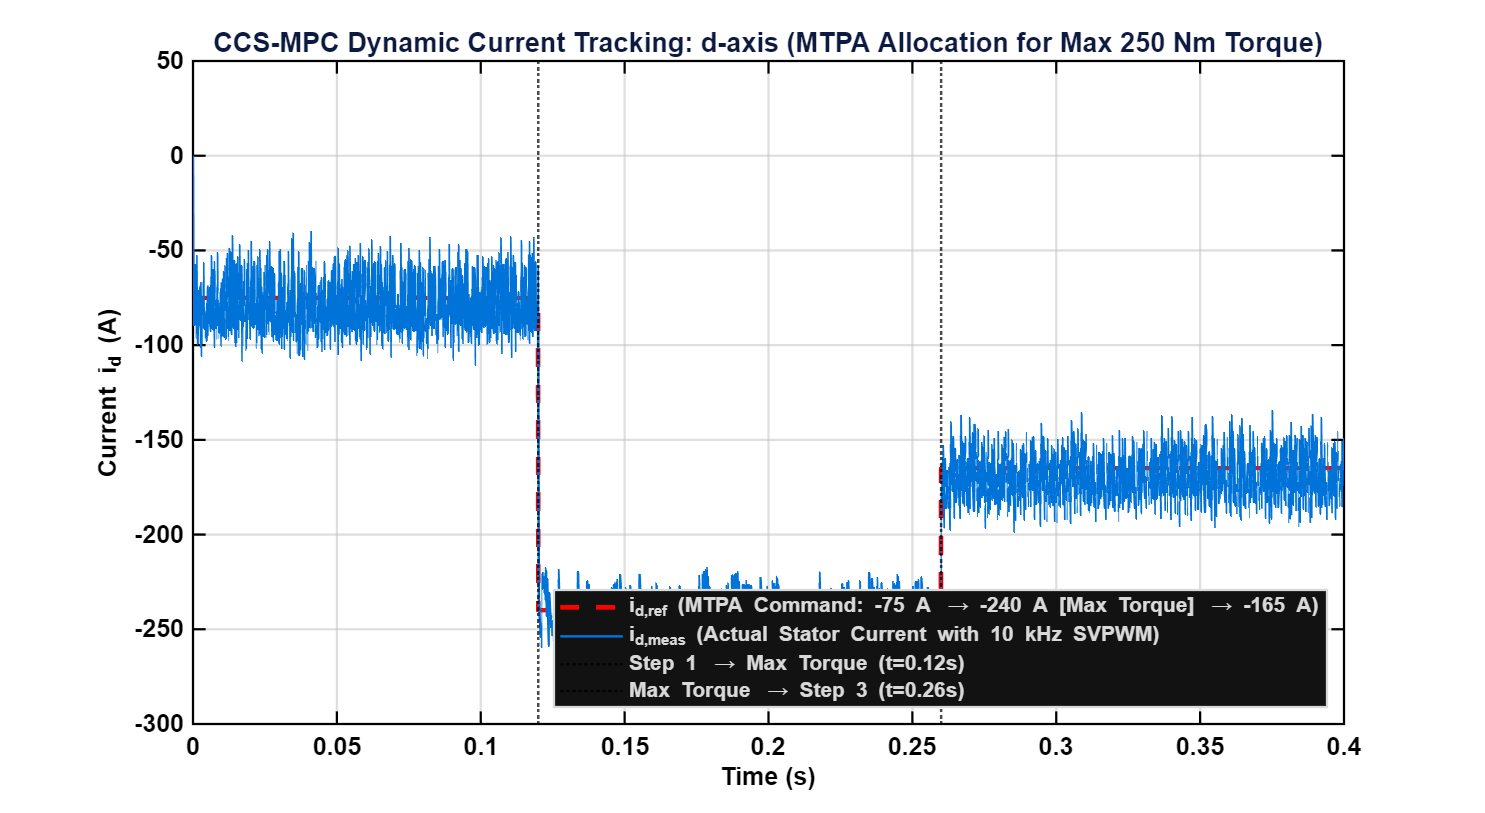
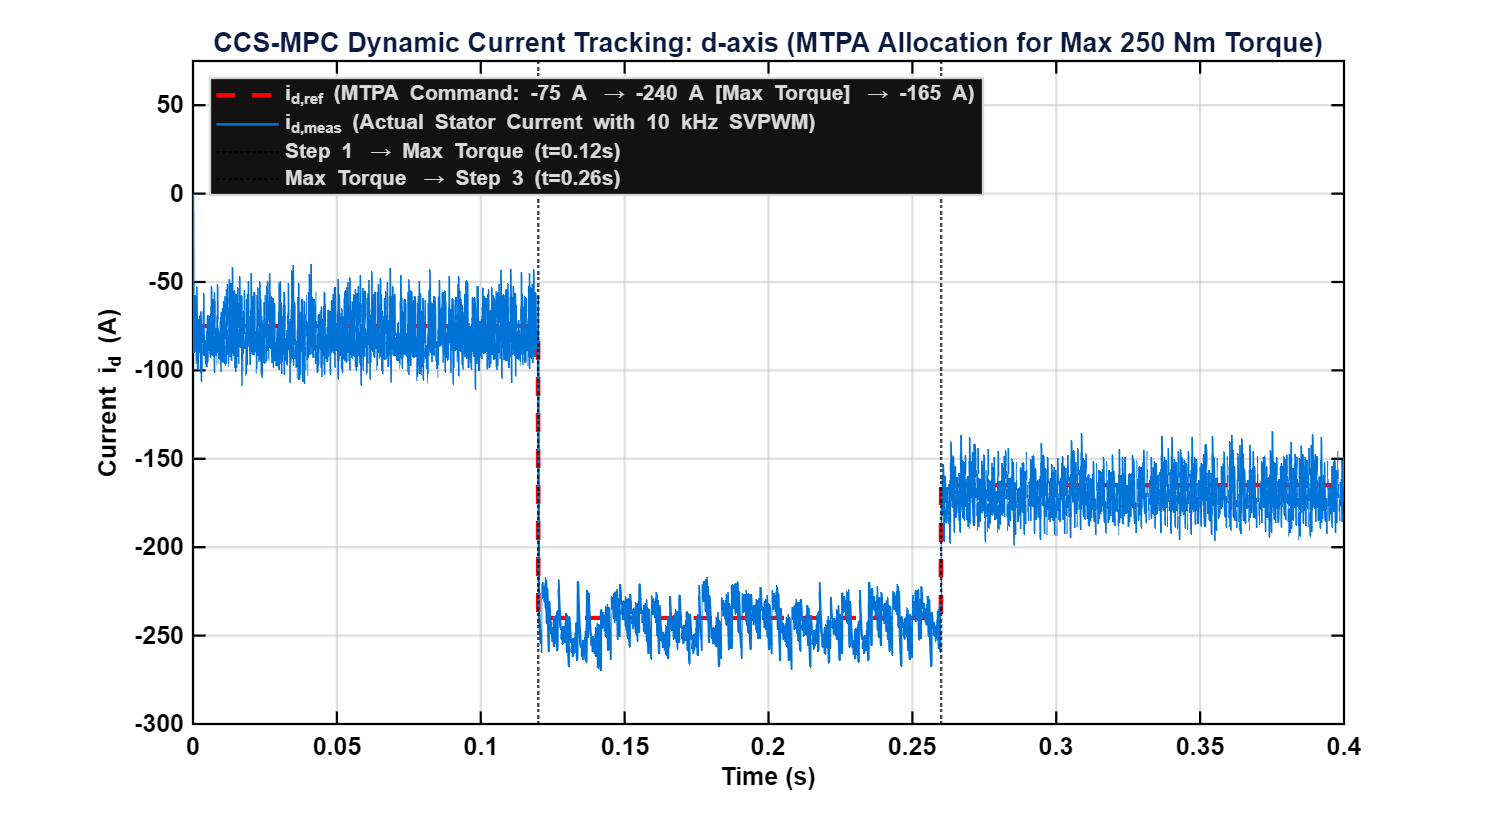
fix(review-2): remove 6 redundant error slides and relocate tracking legends clear of waveforms

diff --git a/Review_2/Presentation/first_review.tex b/Review_2/Presentation/first_review.tex
@@ -1142,19 +1142,7 @@
     \end{itemize}
 \end{frame}
 
-\begin{frame}{33. AutoTuner Result: Stator Resistance ($R_s$) SIL Error}
-    \centering
-    \includegraphics[height=0.52\textheight,keepaspectratio]{AutoTuner_Error_Rs_est.png}
-    \vspace{1mm}
-    \begin{itemize}
-        \footnotesize
-        \setlength{\itemsep}{2pt}
-        \item \textbf{Error Metric:} Max Absolute Error = \textbf{0.00e+00} across the entire 8.5-second execution window.
-        \item \textbf{Stability:} Zero numerical drift or division-by-zero anomaly on embedded target.
-    \end{itemize}
-\end{frame}
-
-\begin{frame}{34. AutoTuner Result: $d$-axis Inductance ($L_d$) Estimation}
+\begin{frame}{33. AutoTuner Result: $d$-axis Inductance ($L_d$) Estimation}
     \centering
     \includegraphics[height=0.52\textheight,keepaspectratio]{AutoTuner_MIL_vs_SIL_Ld_est.png}
     \vspace{1mm}
@@ -1166,19 +1154,7 @@
     \end{itemize}
 \end{frame}
 
-\begin{frame}{35. AutoTuner Result: $d$-axis Inductance ($L_d$) SIL Error}
-    \centering
-    \includegraphics[height=0.52\textheight,keepaspectratio]{AutoTuner_Error_Ld_est.png}
-    \vspace{1mm}
-    \begin{itemize}
-        \footnotesize
-        \setlength{\itemsep}{2pt}
-        \item \textbf{Error Metric:} Max Absolute Error = \textbf{0.00e+00}.
-        \item \textbf{Verification Parity:} Proves Fourier accumulator maintains bit-level parity on embedded C target.
-    \end{itemize}
-\end{frame}
-
-\begin{frame}{36. AutoTuner Result: $q$-axis Inductance ($L_q$) Estimation}
+\begin{frame}{34. AutoTuner Result: $q$-axis Inductance ($L_q$) Estimation}
     \centering
     \includegraphics[height=0.52\textheight,keepaspectratio]{AutoTuner_MIL_vs_SIL_Lq_est.png}
     \vspace{1mm}
@@ -1190,19 +1166,7 @@
     \end{itemize}
 \end{frame}
 
-\begin{frame}{37. AutoTuner Result: $q$-axis Inductance ($L_q$) SIL Error}
-    \centering
-    \includegraphics[height=0.52\textheight,keepaspectratio]{AutoTuner_Error_Lq_est.png}
-    \vspace{1mm}
-    \begin{itemize}
-        \footnotesize
-        \setlength{\itemsep}{2pt}
-        \item \textbf{Error Metric:} Max Absolute Error = \textbf{0.00e+00}.
-        \item \textbf{Fidelity:} High-frequency injection logic executes with bit-level parity across host and SIL C-code.
-    \end{itemize}
-\end{frame}
-
-\begin{frame}{38. AutoTuner Result: PM Flux Linkage ($\Psi_{PM}$) Estimation}
+\begin{frame}{35. AutoTuner Result: PM Flux Linkage ($\Psi_{PM}$) Estimation}
     \centering
     \includegraphics[height=0.52\textheight,keepaspectratio]{AutoTuner_MIL_vs_SIL_PsiPM_est.png}
     \vspace{1mm}
@@ -1214,19 +1178,7 @@
     \end{itemize}
 \end{frame}
 
-\begin{frame}{39. AutoTuner Result: PM Flux Linkage ($\Psi_{PM}$) SIL Error}
-    \centering
-    \includegraphics[height=0.52\textheight,keepaspectratio]{AutoTuner_Error_PsiPM_est.png}
-    \vspace{1mm}
-    \begin{itemize}
-        \footnotesize
-        \setlength{\itemsep}{2pt}
-        \item \textbf{Error Metric:} Max Absolute Error = \textbf{0.00e+00}.
-        \item \textbf{Algorithm Fidelity:} Back-EMF moving average filter executes identically in Simulink and generated C-code.
-    \end{itemize}
-\end{frame}
-
-\begin{frame}{40. AutoTuner Result: Viscous Friction ($B$) Estimation}
+\begin{frame}{36. AutoTuner Result: Viscous Friction ($B$) Estimation}
     \centering
     \includegraphics[height=0.52\textheight,keepaspectratio]{AutoTuner_MIL_vs_SIL_B_est.png}
     \vspace{1mm}
@@ -1238,19 +1190,7 @@
     \end{itemize}
 \end{frame}
 
-\begin{frame}{41. AutoTuner Result: Viscous Friction ($B$) SIL Error}
-    \centering
-    \includegraphics[height=0.52\textheight,keepaspectratio]{AutoTuner_Error_B_est.png}
-    \vspace{1mm}
-    \begin{itemize}
-        \footnotesize
-        \setlength{\itemsep}{2pt}
-        \item \textbf{Error Metric:} Max Absolute Error = \textbf{0.00e+00}.
-        \item \textbf{Robustness:} Identical torque-speed ratio calculations across simulation and target executable.
-    \end{itemize}
-\end{frame}
-
-\begin{frame}{42. AutoTuner Result: Rotor Inertia ($J$) Estimation}
+\begin{frame}{37. AutoTuner Result: Rotor Inertia ($J$) Estimation}
     \centering
     \includegraphics[height=0.52\textheight,keepaspectratio]{AutoTuner_MIL_vs_SIL_J_est.png}
     \vspace{1mm}
@@ -1262,19 +1202,7 @@
     \end{itemize}
 \end{frame}
 
-\begin{frame}{43. AutoTuner Result: Rotor Inertia ($J$) SIL Error}
-    \centering
-    \includegraphics[height=0.52\textheight,keepaspectratio]{AutoTuner_Error_J_est.png}
-    \vspace{1mm}
-    \begin{itemize}
-        \footnotesize
-        \setlength{\itemsep}{2pt}
-        \item \textbf{Error Metric:} Max Absolute Error = \textbf{0.00e+00}.
-        \item \textbf{Timing Precision:} Time integration intervals synchronize perfectly with discrete $10\text{ kHz}$ interrupt ticks.
-    \end{itemize}
-\end{frame}
-
-\begin{frame}{44. AutoTuner Result: Speed Setpoint Output ($\omega_{ref,out}$)}
+\begin{frame}{38. AutoTuner Result: Speed Setpoint Output ($\omega_{ref,out}$)}
     \centering
     \includegraphics[height=0.52\textheight,keepaspectratio]{AutoTuner_MIL_vs_SIL_omega_ref_out.png}
     \vspace{1mm}
@@ -1286,7 +1214,7 @@
     \end{itemize}
 \end{frame}
 
-\begin{frame}{45. AutoTuner: Deep Engineering Inferences}
+\begin{frame}{39. AutoTuner: Deep Engineering Inferences}
     \begin{itemize}
         \footnotesize
         \setlength{\itemsep}{3pt}
